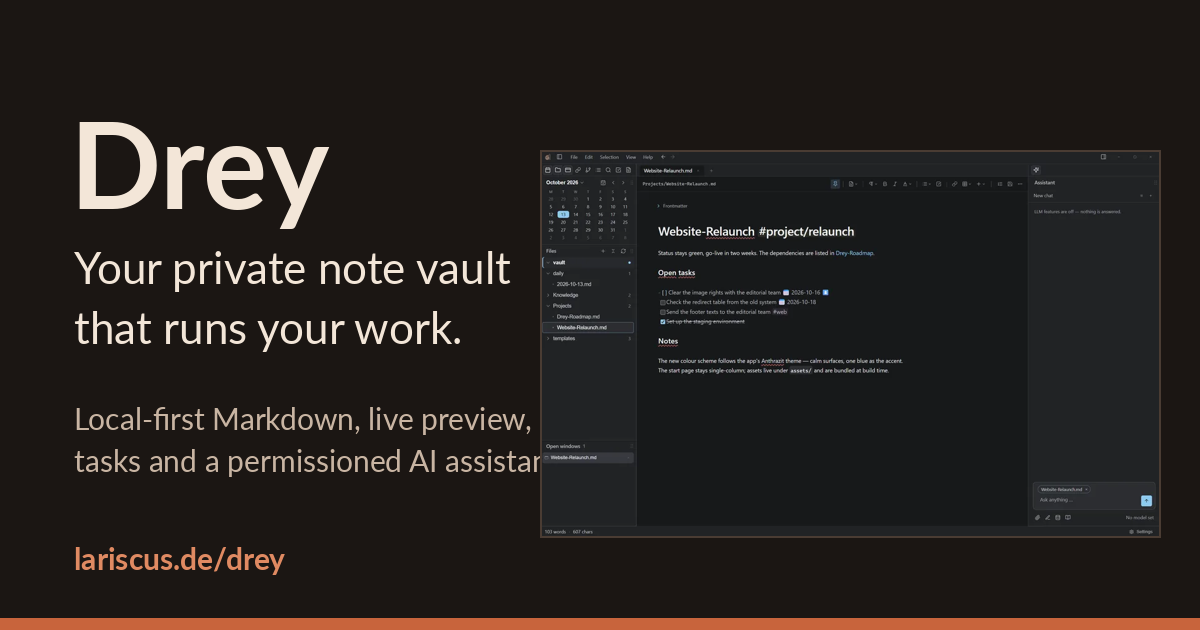
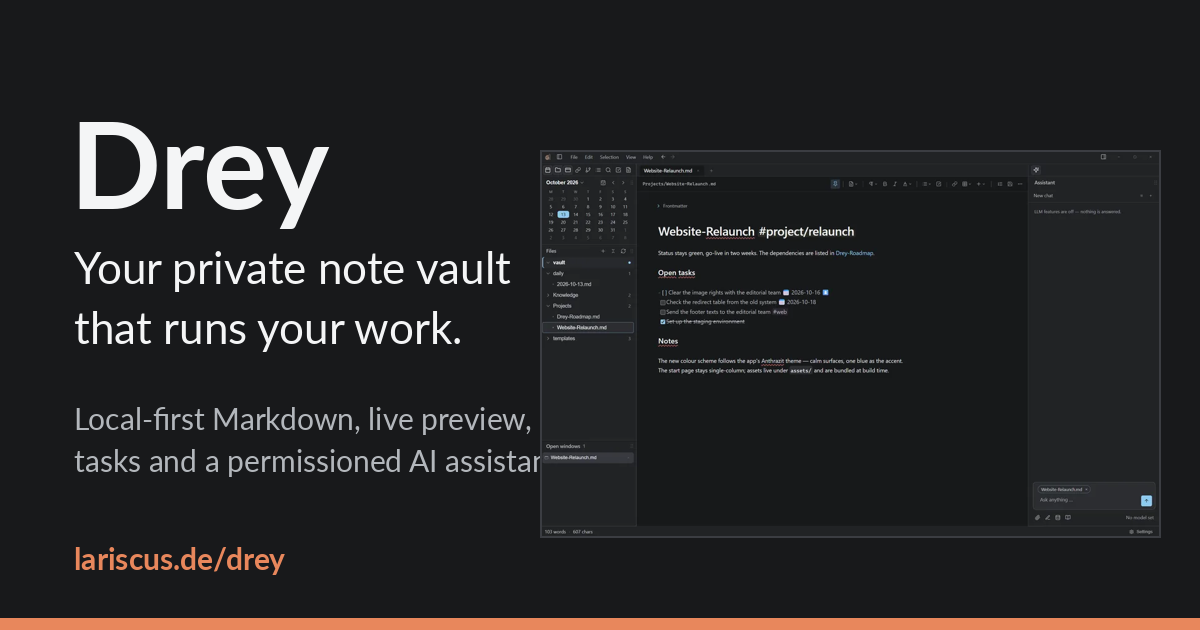
Anthrazit base theme, per-product accents, wider side gutters

diff --git a/assets/site.css b/assets/site.css
@@ -1,29 +1,22 @@
 :root {
-  --bg: #faf6f1;
-  --surface: #ffffff;
-  --ink: #231b16;
-  --muted: #62554c;
-  --line: #e4d9cd;
-  --code-bg: #f1e9df;
-  --accent: #b4491f;
-  --accent-ink: #ffffff;
-  --accent-soft: #f6e3d8;
-  --shot-bg: #1b1613;
+  --bg: #18191b;
+  --surface: #222326;
+  --ink: #f4f5f6;
+  --muted: #b3b7bc;
+  --line: #3b3d42;
+  --code-bg: #2c2d31;
+  --accent: #e0a458;
+  --accent-ink: #1a1203;
+  --accent-soft: #2f2a20;
+  --shot-bg: #101113;
   --font-body: system-ui, -apple-system, "Segoe UI", Roboto, "Helvetica Neue", Arial, sans-serif;
   --font-mono: ui-monospace, "SF Mono", "Cascadia Mono", Menlo, Consolas, "Liberation Mono", monospace;
   --maxw: 1120px;
-  color-scheme: light dark;
+  --gutter: clamp(24px, 6vw, 72px);
+  color-scheme: dark;
 }
-body.dricket {
-  --accent: #0b6e5f; --accent-soft: #d8efe9;
-}
-@media (prefers-color-scheme: dark) {
-  :root {
-    --bg: #14100d; --surface: #1d1815; --ink: #f1e7dc; --muted: #b6a698; --line: #342b25;
-    --code-bg: #241d19; --accent: #e8875c; --accent-ink: #1b0f08; --accent-soft: #33221a;
-  }
-  body.dricket { --accent: #3ccbb0; --accent-ink: #06201b; --accent-soft: #123029; --bg: #0e1217; --surface: #161c23; --ink: #e8ecf1; --muted: #9aa6b5; --line: #2a333e; --code-bg: #1b232c; }
-}
+body.drey { --accent: #e8875c; --accent-ink: #1b0f08; --accent-soft: #33241c; }
+body.dricket { --accent: #3ccbb0; --accent-ink: #06201b; --accent-soft: #1b2f2b; }
 *, *::before, *::after { box-sizing: border-box; }
 html { scroll-behavior: smooth; }
 body { margin: 0; background: var(--bg); color: var(--ink); font: 17px/1.65 var(--font-body); -webkit-text-size-adjust: 100%; }
@@ -31,7 +24,7 @@ img { max-width: 100%; height: auto; display: block; }
 a { color: var(--accent); text-underline-offset: 3px; }
 a:hover { text-decoration-thickness: 2px; }
 :focus-visible { outline: 3px solid var(--accent); outline-offset: 2px; border-radius: 4px; }
-.wrap { max-width: var(--maxw); margin: 0 auto; padding: 0 max(20px, env(safe-area-inset-left)); }
+.wrap { max-width: var(--maxw); margin: 0 auto; padding: 0 max(var(--gutter), env(safe-area-inset-left)); }
 .skip { position: absolute; left: -999px; top: 8px; background: var(--accent); color: var(--accent-ink); padding: 8px 14px; border-radius: 6px; z-index: 10; }
 .skip:focus { left: 8px; }
 
@@ -43,7 +36,7 @@ nav.main { display: flex; gap: 22px; margin-left: auto; flex-wrap: wrap; }
 nav.main a { color: var(--muted); text-decoration: none; font-weight: 500; font-size: 16px; padding: 6px 0; border-bottom: 2px solid transparent; }
 nav.main a:hover, nav.main a[aria-current="page"] { color: var(--ink); border-bottom-color: var(--accent); }
 
-.hero { padding: 72px 0 40px; }
+.hero { padding-block: 72px 40px; }
 .hero .grid { display: grid; grid-template-columns: minmax(0, 1fr); gap: 44px; }
 .eyebrow { font-family: var(--font-mono); font-size: 13px; letter-spacing: .08em; text-transform: uppercase; color: var(--accent); margin: 0 0 14px; }
 h1 { font-size: clamp(34px, 5.4vw, 58px); line-height: 1.08; margin: 0 0 20px; letter-spacing: -.02em; }
@@ -57,7 +50,7 @@ h3 { font-size: 20px; line-height: 1.3; margin: 0 0 8px; }
 .btn.primary:hover { filter: brightness(1.08); }
 .note { font-size: 14px; color: var(--muted); margin: 0; }
 
-.shot { background: var(--shot-bg); border: 1px solid var(--line); border-radius: 12px; overflow: hidden; box-shadow: 0 18px 50px rgba(0,0,0,.18); }
+.shot { background: var(--shot-bg); border: 1px solid var(--line); border-radius: 12px; overflow: hidden; box-shadow: 0 18px 50px rgba(0,0,0,.35); }
 .shot img { width: 100%; }
 figure { margin: 0; }
 figcaption { font-size: 14px; color: var(--muted); margin-top: 10px; }
@@ -75,7 +68,7 @@ section + section { border-top: 1px solid var(--line); }
 .product .card .body .btn { align-self: flex-start; margin-top: auto; }
 .product .thumb { background: var(--shot-bg); aspect-ratio: 16 / 9; display: flex; align-items: center; justify-content: center; border-bottom: 1px solid var(--line); }
 .product .thumb img { width: 100%; height: 100%; object-fit: cover; object-position: top left; }
-.product .thumb.term { padding: 22px; align-items: flex-start; justify-content: flex-start; background: #0e1217; }
+.product .thumb.term { padding: 22px; align-items: flex-start; justify-content: flex-start; background: #101113; }
 
 .split { display: grid; grid-template-columns: minmax(0, 1fr); gap: 36px; align-items: center; }
 @media (min-width: 900px) {
@@ -90,9 +83,9 @@ ul.ticks li::before { content: ""; position: absolute; left: 4px; top: .6em; wid
 
 pre, code { font-family: var(--font-mono); }
 code { background: var(--code-bg); padding: .12em .4em; border-radius: 5px; font-size: .9em; }
-pre.term { background: #0e1217; color: #d8dee6; border: 1px solid #2a333e; border-radius: 12px; padding: 20px 22px; margin: 0; overflow-x: auto; font-size: 14.5px; line-height: 1.7; }
+pre.term { background: #101113; color: #d8dee6; border: 1px solid var(--line); border-radius: 12px; padding: 20px 22px; margin: 0; overflow-x: auto; font-size: 14.5px; line-height: 1.7; }
 pre.term .p { color: #8794a4; }
-pre.term .ok { color: #3ccbb0; }
+pre.term .ok { color: var(--accent); }
 pre.term .c { color: #8794a4; font-style: italic; }
 .thumb.term pre.term { border: 0; padding: 0; background: transparent; font-size: 13px; line-height: 1.6; }
 
@@ -120,7 +113,7 @@ footer.site .legal { margin-top: 32px; font-size: 13px; }
 
 @media (max-width: 640px) {
   body { font-size: 16.5px; }
-  .hero { padding: 44px 0 24px; }
+  .hero { padding-block: 44px 24px; }
   section { padding: 40px 0; }
   nav.main { margin-left: 0; gap: 16px; width: 100%; }
   header.site .wrap { padding-top: 8px; padding-bottom: 8px; }

diff --git a/drey/index.html b/drey/index.html
@@ -7,7 +7,7 @@
 <meta name="description" content="Drey is a free, open-source Markdown note app with live preview, tasks, tags, search and an optional AI assistant with permissions. Plain files, Windows and Linux.">
 <meta name="robots" content="index,follow, max-image-preview:large">
 <meta name="author" content="Lariscus">
-<meta name="theme-color" content="#1b1613">
+<meta name="theme-color" content="#18191b">
 <link rel="canonical" href="https://lariscus.de/drey/">
 <link rel="icon" href="/assets/favicon.ico" sizes="48x48">
 <link rel="icon" type="image/png" sizes="32x32" href="/assets/favicon-32.png">
@@ -30,7 +30,7 @@
 <script type="application/ld+json">{"@context": "https://schema.org", "@type": "FAQPage", "mainEntity": [{"@type": "Question", "name": "Does Drey send my notes anywhere?", "acceptedAnswer": {"@type": "Answer", "text": "No. Notes stay in your vault folder. Only if you switch on a hosted AI provider, or allow web search or an external MCP server, does the content of a question leave your computer."}}, {"@type": "Question", "name": "Which AI models can I use?", "acceptedAnswer": {"@type": "Answer", "text": "Any local server that speaks the OpenAI-compatible API, such as LM Studio, llama.cpp, vLLM or Ollama. OpenRouter, the Anthropic API, Z.ai and the Claude Code CLI are available as opt-in providers."}}, {"@type": "Question", "name": "Can I use Drey without AI?", "acceptedAnswer": {"@type": "Answer", "text": "Yes. The assistant is optional; the editor, tasks, tags, search, templates and Git features work on their own."}}, {"@type": "Question", "name": "Can I keep using my existing Markdown files?", "acceptedAnswer": {"@type": "Answer", "text": "Yes. Point Drey at any folder of Markdown notes. It never adds frontmatter to a note on its own, and it never moves your folders around."}}, {"@type": "Question", "name": "Is Drey free?", "acceptedAnswer": {"@type": "Answer", "text": "Yes. Drey is open source under the GNU GPL v3."}}]}</script>
 <script type="application/ld+json">{"@context": "https://schema.org", "@type": "BreadcrumbList", "itemListElement": [{"@type": "ListItem", "position": 1, "name": "Lariscus", "item": "https://lariscus.de/"}, {"@type": "ListItem", "position": 2, "name": "Drey", "item": "https://lariscus.de/drey/"}]}</script>
 </head>
-<body class="">
+<body class="drey">
 <a class="skip" href="#main">Skip to content</a>
 <header class="site"><div class="wrap">
 <a class="brand" href="/"><img src="/assets/icon-192.png" width="32" height="32" alt="">Lariscus</a>

diff --git a/index.html b/index.html
@@ -7,7 +7,7 @@
 <meta name="description" content="Lariscus builds open-source, local-first tools for people who work with AI agents: Drey, a private Markdown note vault, and dricket, serverless Git tickets.">
 <meta name="robots" content="index,follow, max-image-preview:large">
 <meta name="author" content="Lariscus">
-<meta name="theme-color" content="#1b1613">
+<meta name="theme-color" content="#18191b">
 <link rel="canonical" href="https://lariscus.de/">
 <link rel="icon" href="/assets/favicon.ico" sizes="48x48">
 <link rel="icon" type="image/png" sizes="32x32" href="/assets/favicon-32.png">
@@ -29,7 +29,7 @@
 <script type="application/ld+json">{"@context": "https://schema.org", "@type": "Organization", "name": "Lariscus", "url": "https://lariscus.de/", "logo": "https://lariscus.de/assets/drey-icon-512.png", "sameAs": ["https://github.com/HenrikPuls"]}</script>
 <script type="application/ld+json">{"@context": "https://schema.org", "@type": "WebSite", "name": "Lariscus", "url": "https://lariscus.de/", "inLanguage": "en"}</script>
 </head>
-<body class="">
+<body class="home">
 <a class="skip" href="#main">Skip to content</a>
 <header class="site"><div class="wrap">
 <a class="brand" href="/"><img src="/assets/icon-192.png" width="32" height="32" alt="">Lariscus</a>

diff --git a/dricket/index.html b/dricket/index.html
@@ -7,7 +7,7 @@
 <meta name="description" content="dricket stores tickets as Markdown in Git and claims them by fast-forward push. No server, one atomic claim, a strict CLI that is safe for AI agents. Open source.">
 <meta name="robots" content="index,follow, max-image-preview:large">
 <meta name="author" content="Lariscus">
-<meta name="theme-color" content="#1b1613">
+<meta name="theme-color" content="#18191b">
 <link rel="canonical" href="https://lariscus.de/dricket/">
 <link rel="icon" href="/assets/favicon.ico" sizes="48x48">
 <link rel="icon" type="image/png" sizes="32x32" href="/assets/favicon-32.png">

diff --git a/404.html b/404.html
@@ -7,7 +7,7 @@
 <meta name="description" content="This page does not exist.">
 <meta name="robots" content="noindex, max-image-preview:large">
 <meta name="author" content="Lariscus">
-<meta name="theme-color" content="#1b1613">
+<meta name="theme-color" content="#18191b">
 <link rel="canonical" href="https://lariscus.de/404.html">
 <link rel="icon" href="/assets/favicon.ico" sizes="48x48">
 <link rel="icon" type="image/png" sizes="32x32" href="/assets/favicon-32.png">

diff --git a/scripts/build.py b/scripts/build.py
@@ -23,7 +23,7 @@ def page(*, path, title, desc, og, body_class="", body, schema=(), robots="index
 <meta name="description" content="{esc(desc)}">
 <meta name="robots" content="{robots}, max-image-preview:large">
 <meta name="author" content="Lariscus">
-<meta name="theme-color" content="#1b1613">
+<meta name="theme-color" content="#18191b">
 <link rel="canonical" href="{url}">
 <link rel="icon" href="/assets/favicon.ico" sizes="48x48">
 <link rel="icon" type="image/png" sizes="32x32" href="/assets/favicon-32.png">
@@ -139,7 +139,7 @@ home_schema = [
 ]
 home = page(path="/", title="Lariscus – Drey note vault and dricket Git tickets",
   desc="Lariscus builds open-source, local-first tools for people who work with AI agents: Drey, a private Markdown note vault, and dricket, serverless Git tickets.",
-  og="og-lariscus.png", body=home_body, schema=home_schema)
+  og="og-lariscus.png", body_class="home", body=home_body, schema=home_schema)
 
 # ---------------------------------------------------------------- drey
 dl = f"{GH}/Drey/releases/latest"
@@ -269,7 +269,7 @@ drey_schema = [
 ]
 drey = page(path="/drey/", title="Drey – private local-first Markdown note vault",
   desc="Drey is a free, open-source Markdown note app with live preview, tasks, tags, search and an optional AI assistant with permissions. Plain files, Windows and Linux.",
-  og="og-drey.png", body=drey_body, schema=drey_schema, nav="drey")
+  og="og-drey.png", body_class="drey", body=drey_body, schema=drey_schema, nav="drey")
 
 # ---------------------------------------------------------------- dricket
 dk_body = f"""
